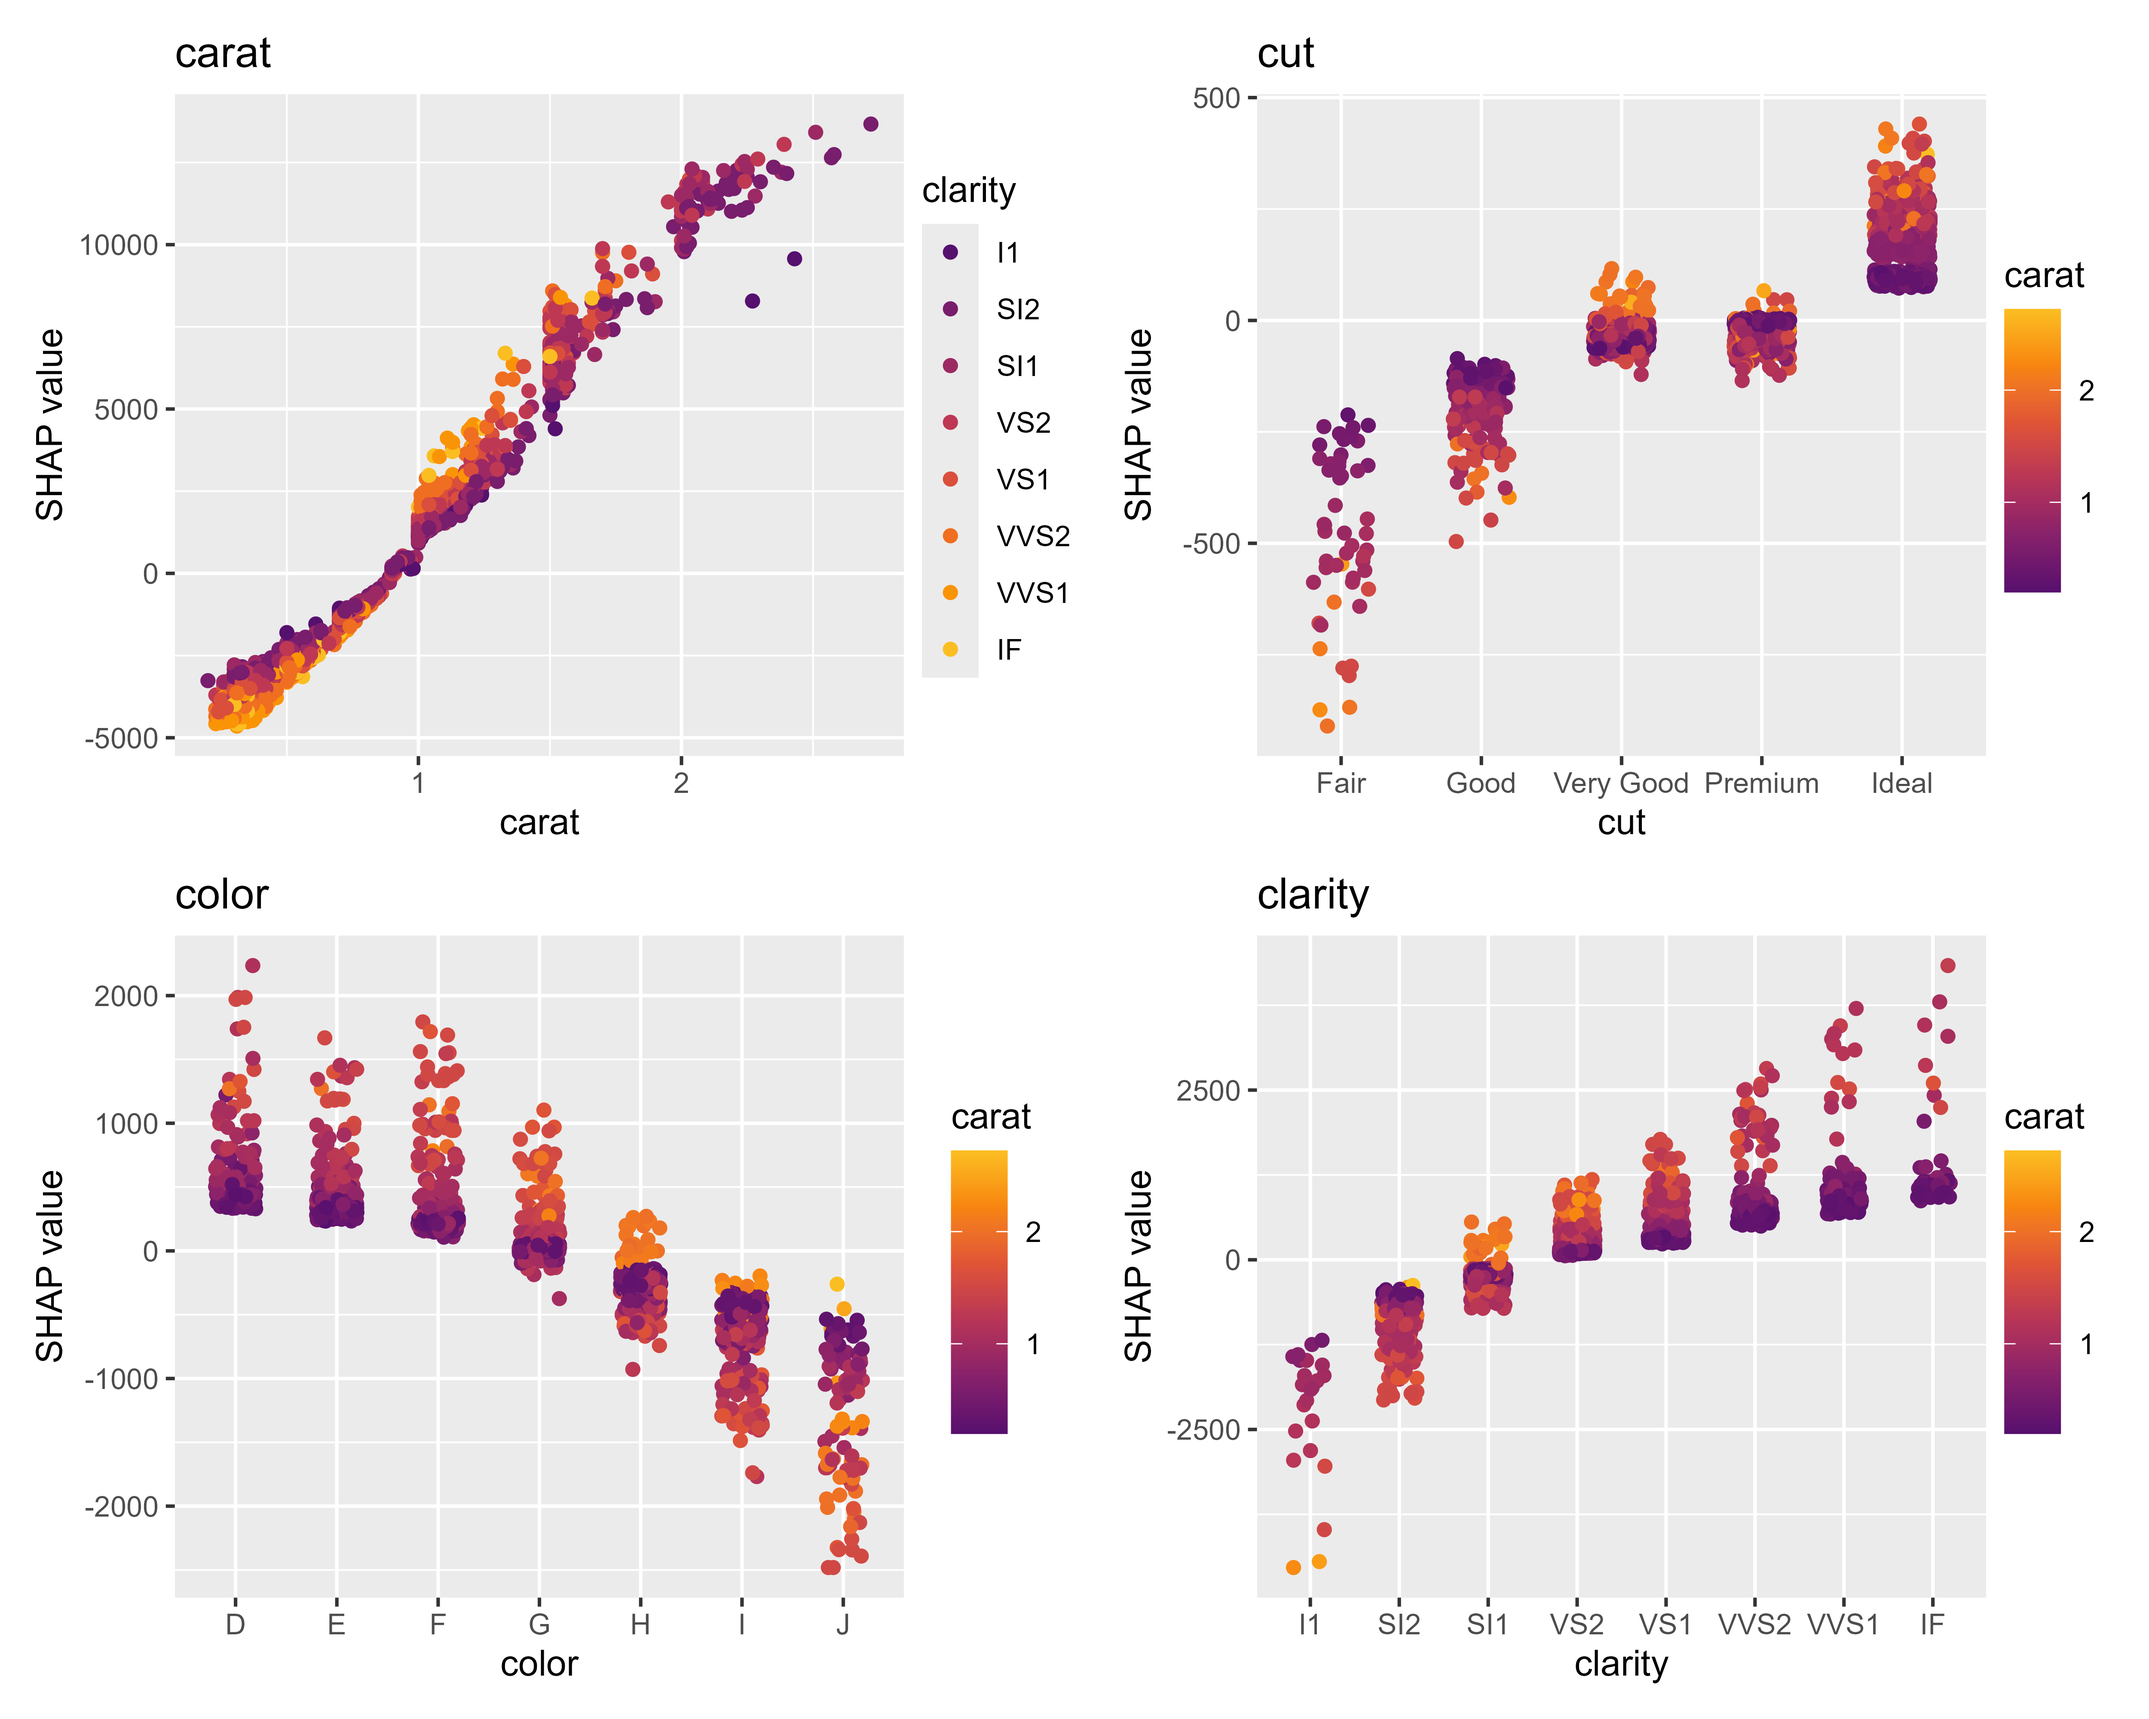
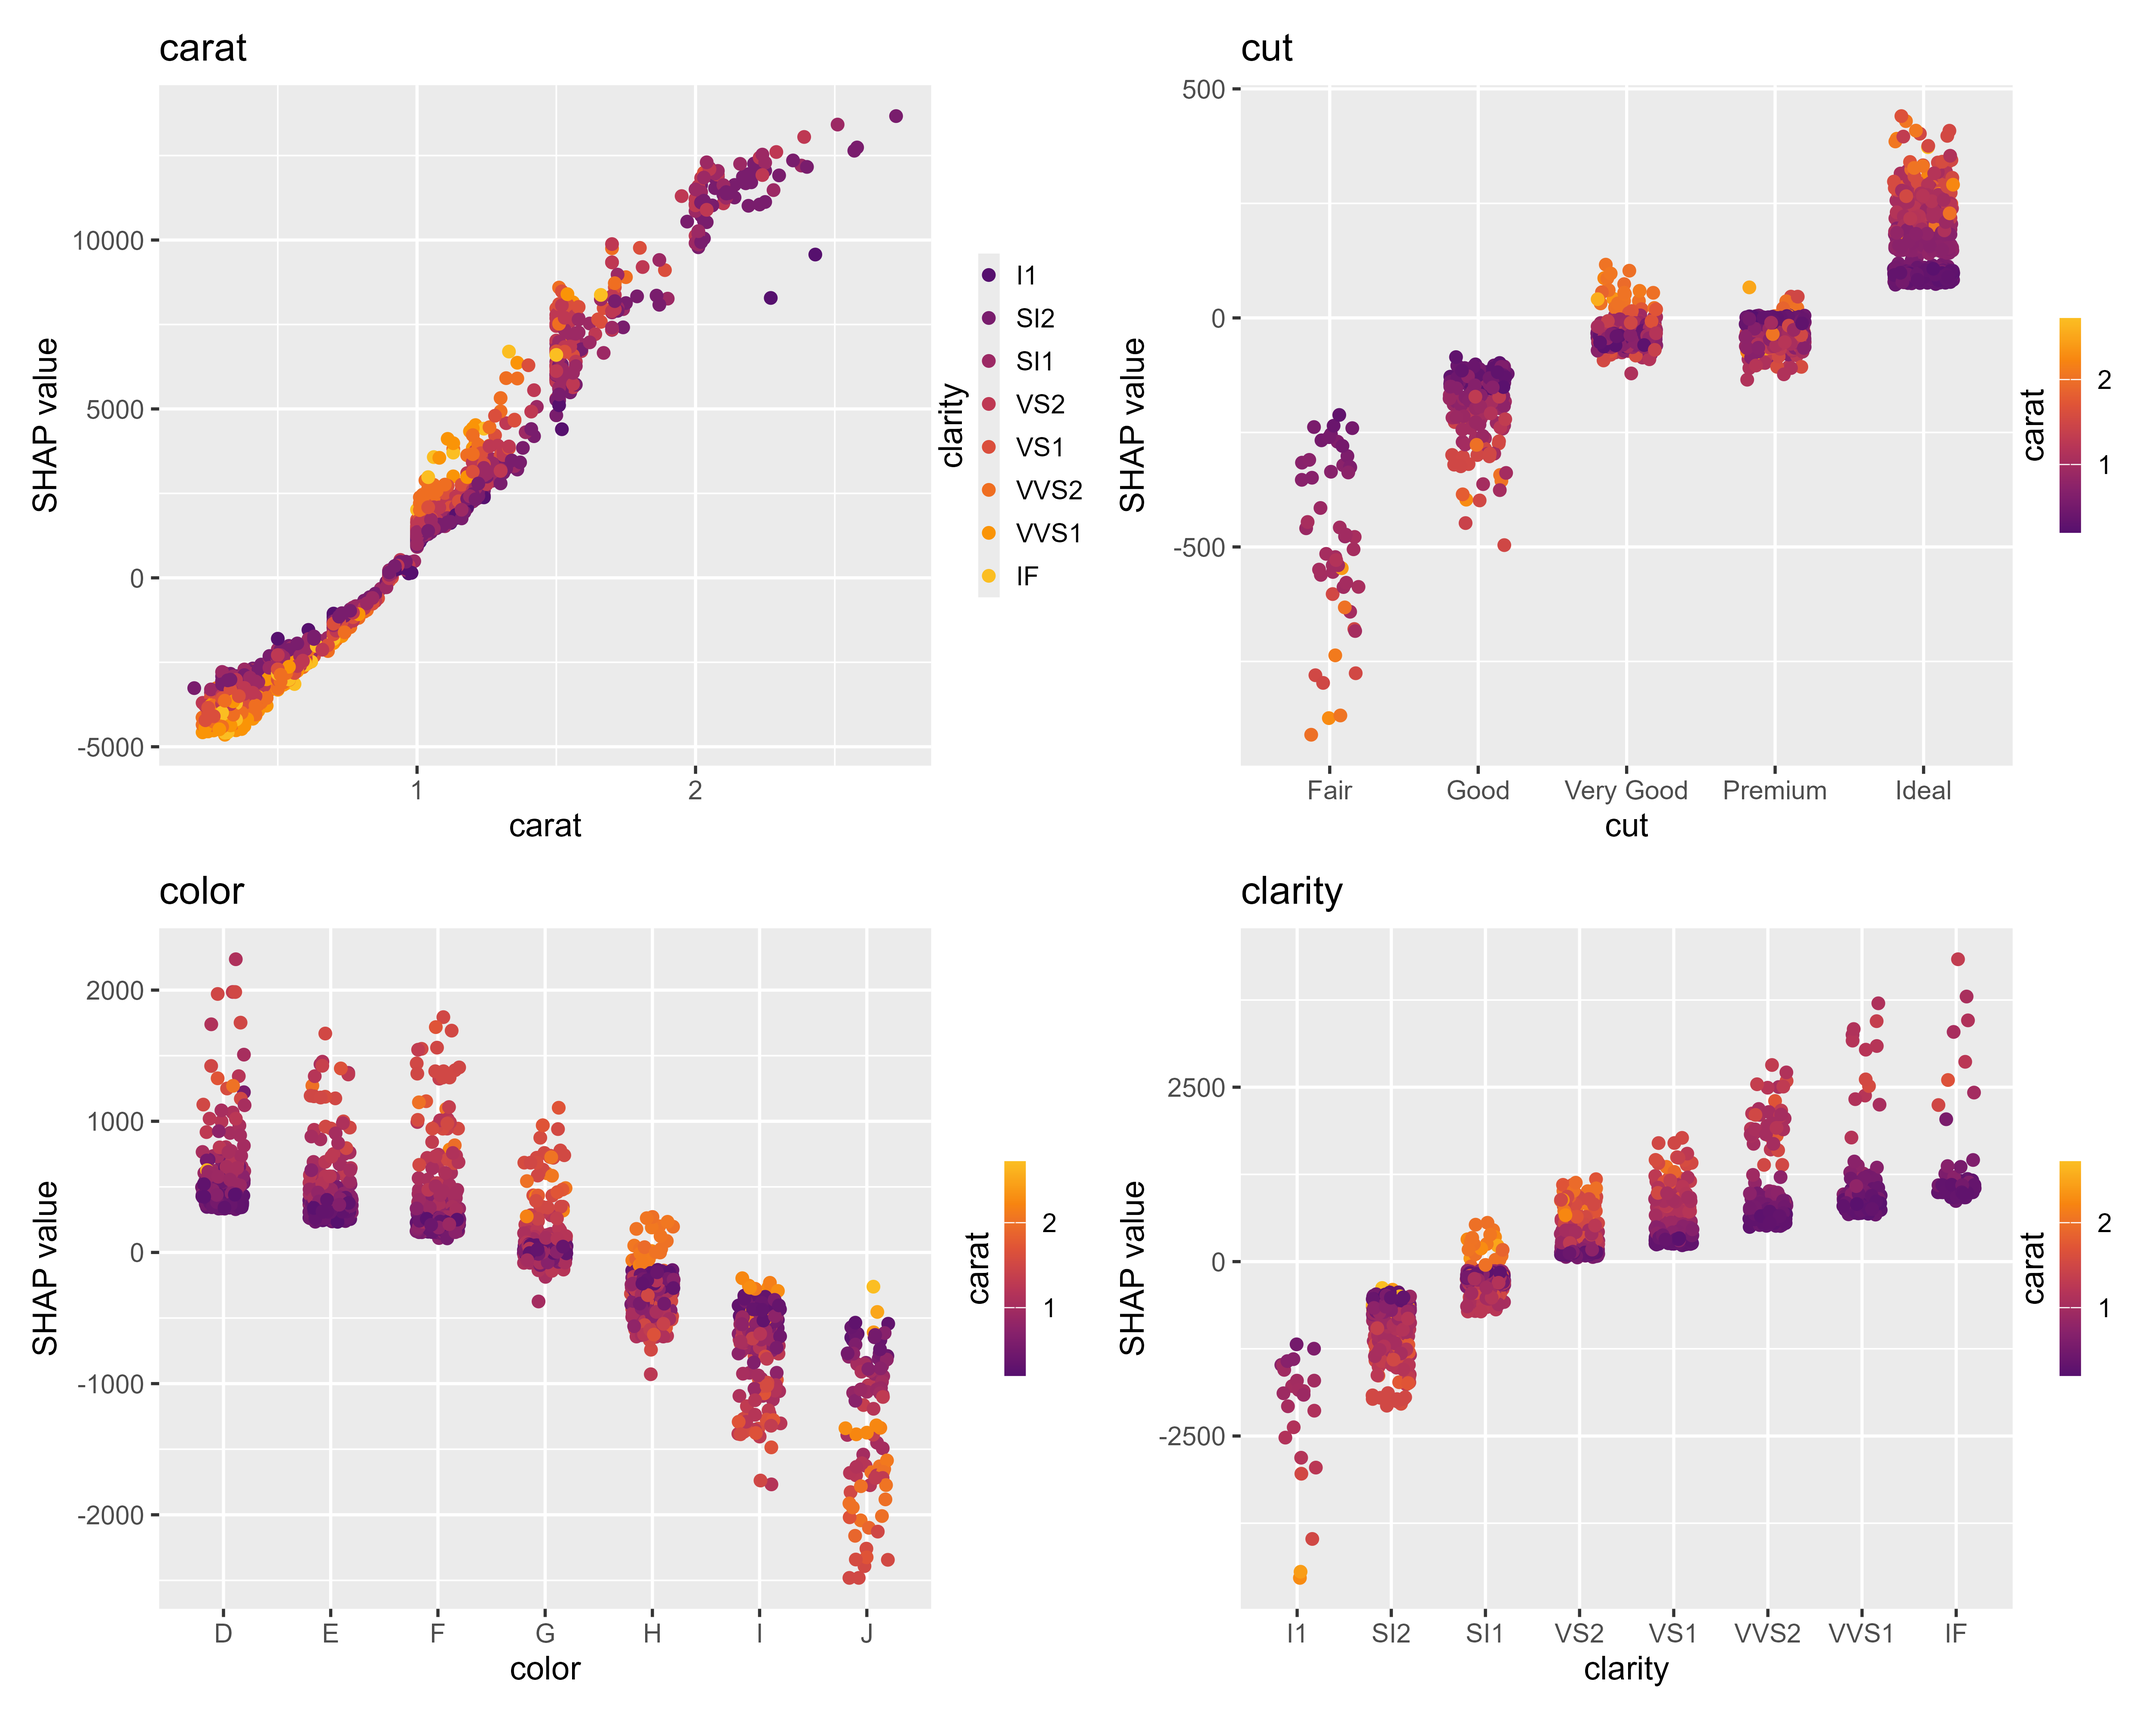
More compact color bar logic

diff --git a/NEWS.md b/NEWS.md
@@ -1,14 +1,20 @@
-# shapviz 0.9.5
+# shapviz 0.10.0
 
-### User-visible changes
+### Visible changes in plots
 
+- `sv_dependence()`: The color bar title has been moved from top (horizontal) to left (vertical), and the color bar is less wide (and slightly less high). Furthermore, spacings around color bar have been reduced.
+- `sv_dependence2D(): The color bar is less wide (and slightly less high).
 - `sv_waterfall()` and `sv_force()`: The x label has been changed from "SHAP value" to "Prediction".
 
 ### Documentation
 
 - Add vignette for Tidymodels.
-- Update "basic_use" vignette.
-- Update README.
+- Update of "basic_use" vignette.
+- Update of README.
+
+### Other changes
+
+- Bumped minimal {ggplot2} version from 3.4 to 3.5
 
 # shapviz 0.9.4
 

diff --git a/README.md b/README.md
@@ -69,7 +69,7 @@ sv_dependence(shp, v = x)  # patchwork
 
 <img src="man/figures/README-bee.png" alt="beeswarm" width="50%"/>
 
-<img src="man/figures/README-dep.png" alt="scatter" width="70%"/>
+<img src="man/figures/README-dep.png" alt="scatter" width="90%"/>
 
 
 Decompositions of individual predictions can be visualized as waterfall or force plot:
